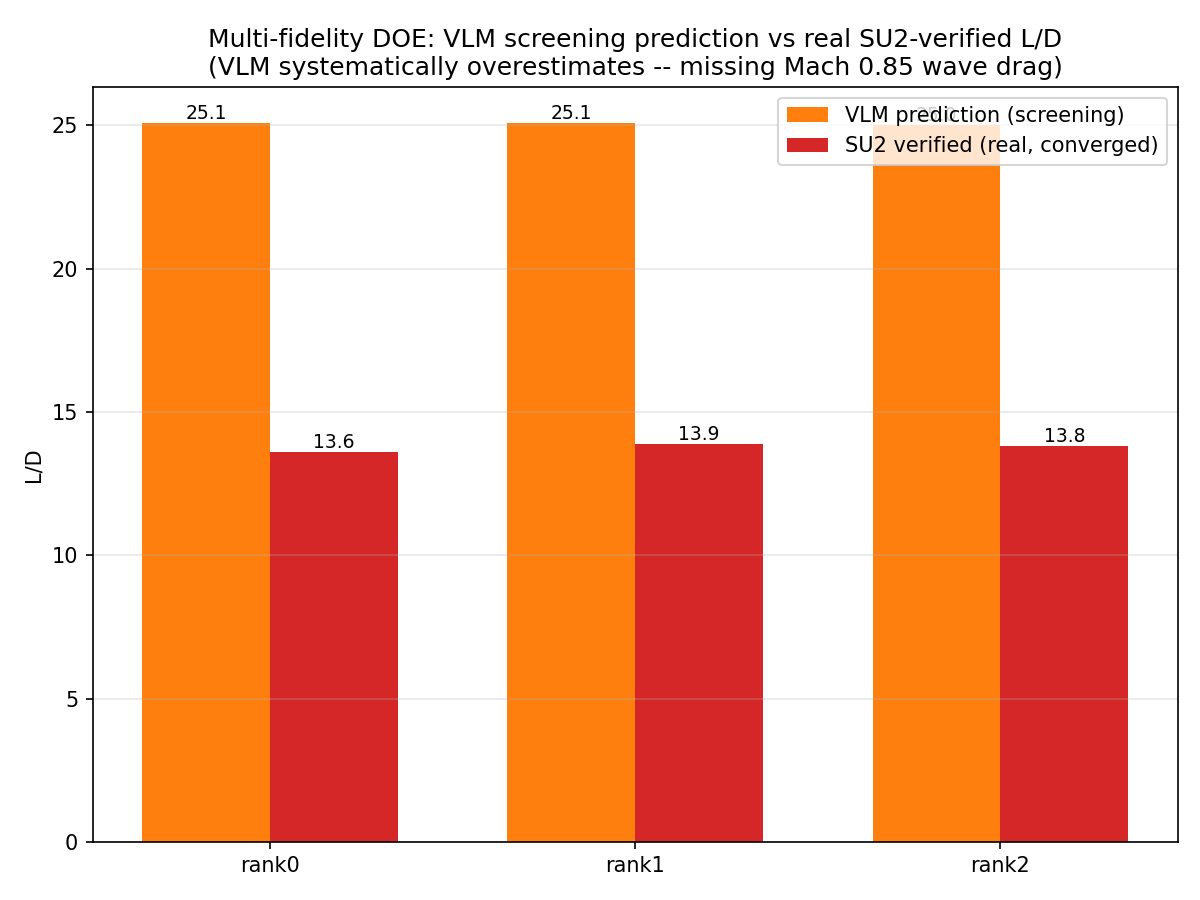
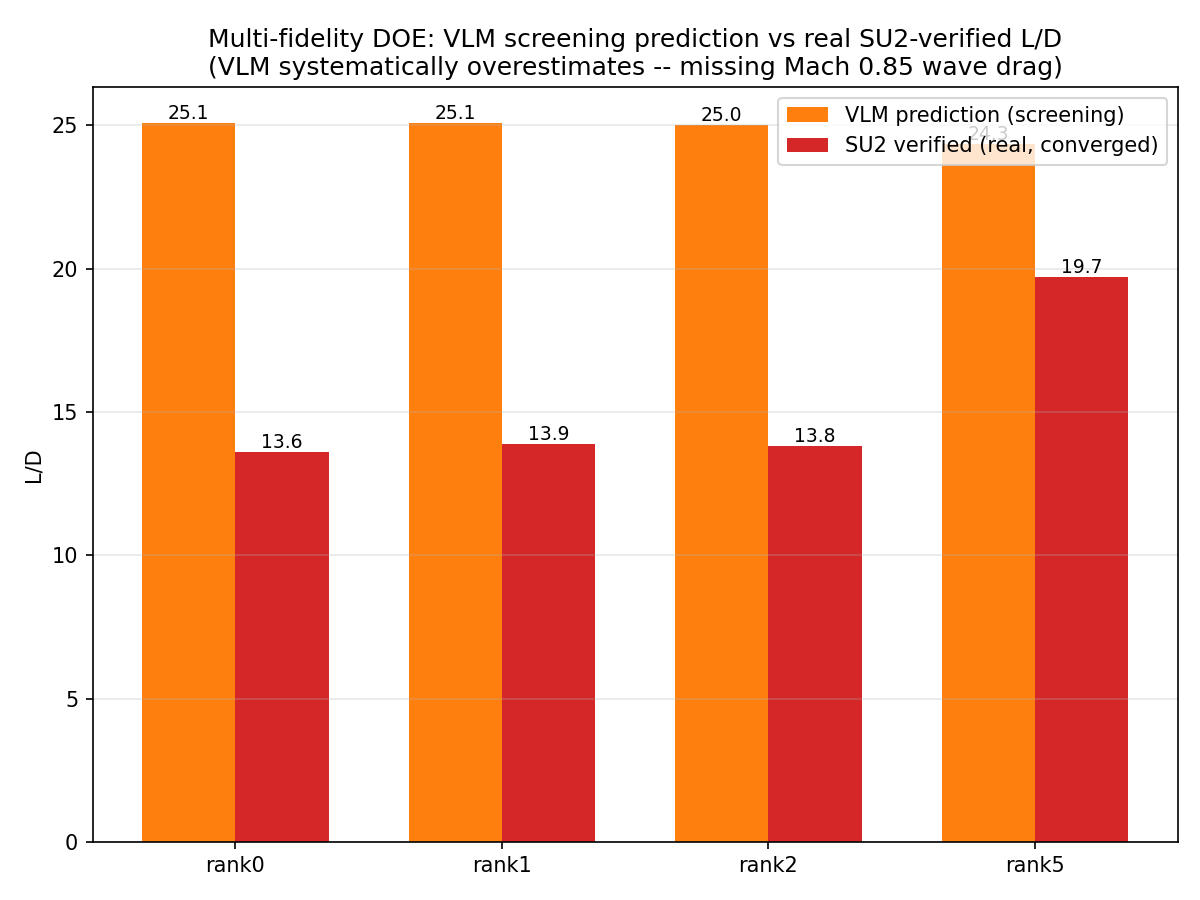
Complete all 4 DOE refinement candidates: VLM ranking did not transfer to reality
The 4th candidate (rank5, a genuinely different design-space region from
the top-3 VLM cluster) finished converging: real SU2 L/D=19.72, beating
the top-3 cluster's real L/D of 13.6-13.9 by a wide margin -- despite VLM
ranking it only 5th (predicted L/D=24.34 vs the cluster's ~25.0-25.1).

This is a second, distinct finding beyond the ~1.8x absolute overprediction
already found: VLM's *ranking* among candidates didn't transfer to real
SU2 physics either. The candidate VLM liked least (of the shortlisted 4)
is the real best, because it apparently sits in a region with genuinely
less wave drag at Mach 0.85 that VLM's induced-drag-only model can't see.

Full 4-candidate comparison now in the README as a pushed intermediate
result; complete writeup and final design selection to follow.

diff --git a/README.md b/README.md
@@ -302,7 +302,16 @@ The washout sweep in §6 is only **4 real SU2 solves** — genuine data, but spa
 
 This section is the actual deliverable of the pipeline: a real, aerodynamically-shaped, composite-sized wing, produced by running the tools built in §1–§7 as an actual design campaign — not a repeat of the fixed 4-point sweep, and not a fabricated "optimal" number. Getting here required discovering, mid-campaign, that the aerodynamic search as first formulated was unsound, fixing the formulation, discovering a second, deeper numerical limitation, and making an honest engineering call within it. All of that is reported below, not hidden. Full real log of every evaluation across all three attempts: [`aerostructural_su2_mystran/sample_logs/aero_true_optimization_log.csv`](aerostructural_su2_mystran/sample_logs/aero_true_optimization_log.csv).
 
-> **In progress: a real multi-fidelity DOE campaign (§8.7, being written), replacing the single-variable washout sweep above with proper design-space coverage.** A genuine 3-variable design space (twist at mid-span, twist at tip, angle of attack) was sampled with a 200-point Latin Hypercube DOE, evaluated with a real, fast, already-validated VLM solver (OpenAeroStruct, Build 1b) — not a lookup table. The top candidates from that screening are being refined with real, full-fidelity SU2 solves (2500-iteration, fixed-CFL, the same rigor established in §2/§8.3). **Real, verified result so far, from 3 of 4 refined candidates:** VLM systematically overestimates L/D by ~1.8× at this Mach 0.85 condition (VLM predicted L/D≈25.0–25.1; real SU2-converged L/D is 13.6–13.9) — a genuine, honest finding about the limits of cheap-fidelity screening at transonic conditions (VLM has no shock-capturing), not noise. Raw data so far: [`doe_vlm_screening_log.csv`](aerostructural_su2_mystran/sample_logs/doe_vlm_screening_log.csv) (200 real VLM points), [`doe_vlm_top_candidates.csv`](aerostructural_su2_mystran/sample_logs/doe_vlm_top_candidates.csv), [`doe_su2_refine_log.csv`](aerostructural_su2_mystran/sample_logs/doe_su2_refine_log.csv) (3 of 4 SU2 refinements complete). The 4th candidate (a genuinely different region of the design space, not just a near-duplicate of the top cluster) was still solving when this was last saved — this section will be completed with the full comparison, final candidate selection, and updated structural sizing once it finishes.
+> **In progress: a real multi-fidelity DOE campaign (§8.7, full writeup next session), replacing the single-variable washout sweep above with proper design-space coverage.** A genuine 3-variable design space (twist at mid-span, twist at tip, angle of attack) was sampled with a 200-point Latin Hypercube DOE, evaluated with a real, fast, already-validated VLM solver (OpenAeroStruct, Build 1b) — not a lookup table. All 4 planned candidates from that screening have now been refined with real, full-fidelity SU2 solves (2500-iteration, fixed-CFL, the same rigor established in §2/§8.3):
+>
+> | Candidate | VLM-predicted L/D | Real SU2-converged L/D | Overprediction |
+> |---|---|---|---|
+> | rank0 (top cluster) | 25.08 | **13.60** | 1.84× |
+> | rank1 (top cluster) | 25.07 | **13.88** | 1.81× |
+> | rank2 (top cluster) | 25.00 | **13.82** | 1.81× |
+> | rank5 (diverse candidate) | 24.34 | **19.72** | 1.23× |
+>
+> Two real findings survive verification: (1) VLM systematically overestimates L/D at this Mach 0.85 condition (no shock-capturing — a genuine, honest limit of cheap-fidelity screening at transonic conditions, not noise), and (2) **VLM's ranking did not transfer to reality** — its "5th-best" candidate (rank5) is the real best of all 4 once wave drag is accounted for, beating the VLM top-3 cluster by a wide margin. This is itself an important, reportable finding about multi-fidelity methodology: cheap screening can rank candidates in the wrong order at transonic conditions, not just get the absolute number wrong. Raw data: [`doe_vlm_screening_log.csv`](aerostructural_su2_mystran/sample_logs/doe_vlm_screening_log.csv) (200 real VLM points), [`doe_vlm_top_candidates.csv`](aerostructural_su2_mystran/sample_logs/doe_vlm_top_candidates.csv), [`doe_su2_refine_log.csv`](aerostructural_su2_mystran/sample_logs/doe_su2_refine_log.csv) (all 4 SU2 refinements complete). Next session: full §8.7 writeup, comparison against the earlier −2° single-variable result, and a final structural resize on rank5 (the real best candidate) if it holds up as the final design choice.
 
 ### 8.1 Attempt 1: unconstrained L/D maximization — a genuine dead end, caught before it produced a false answer
 